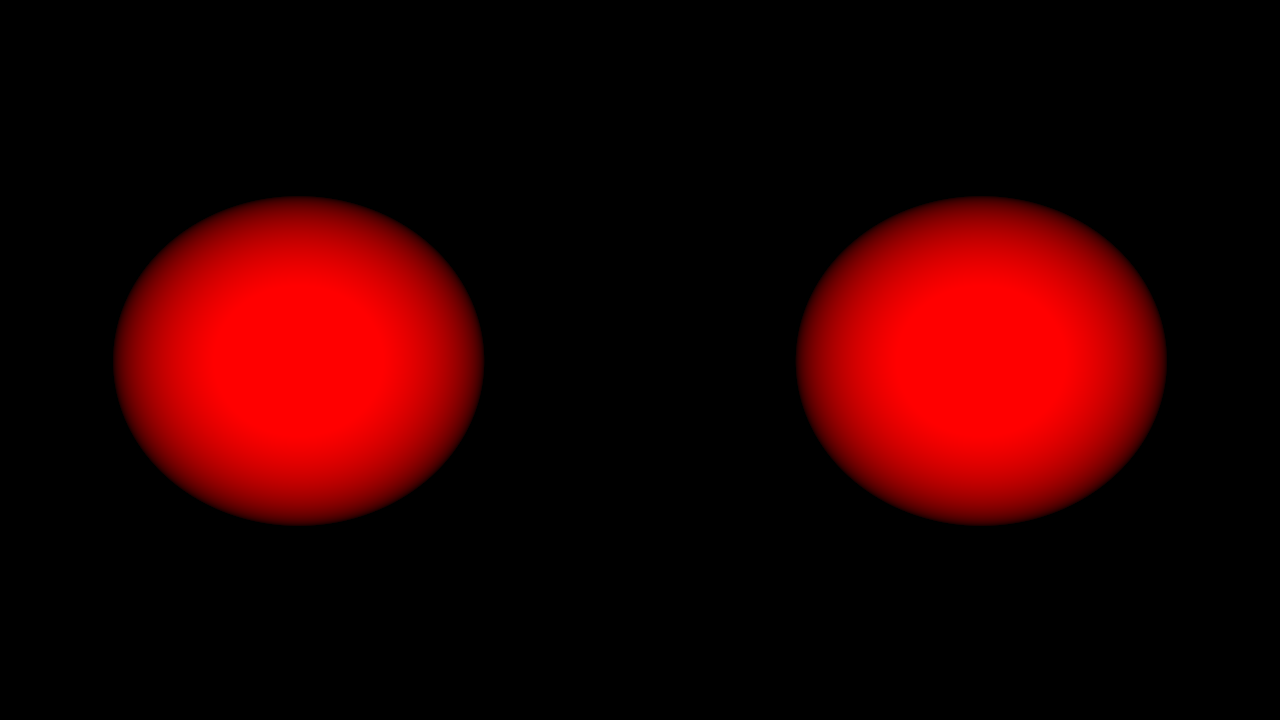
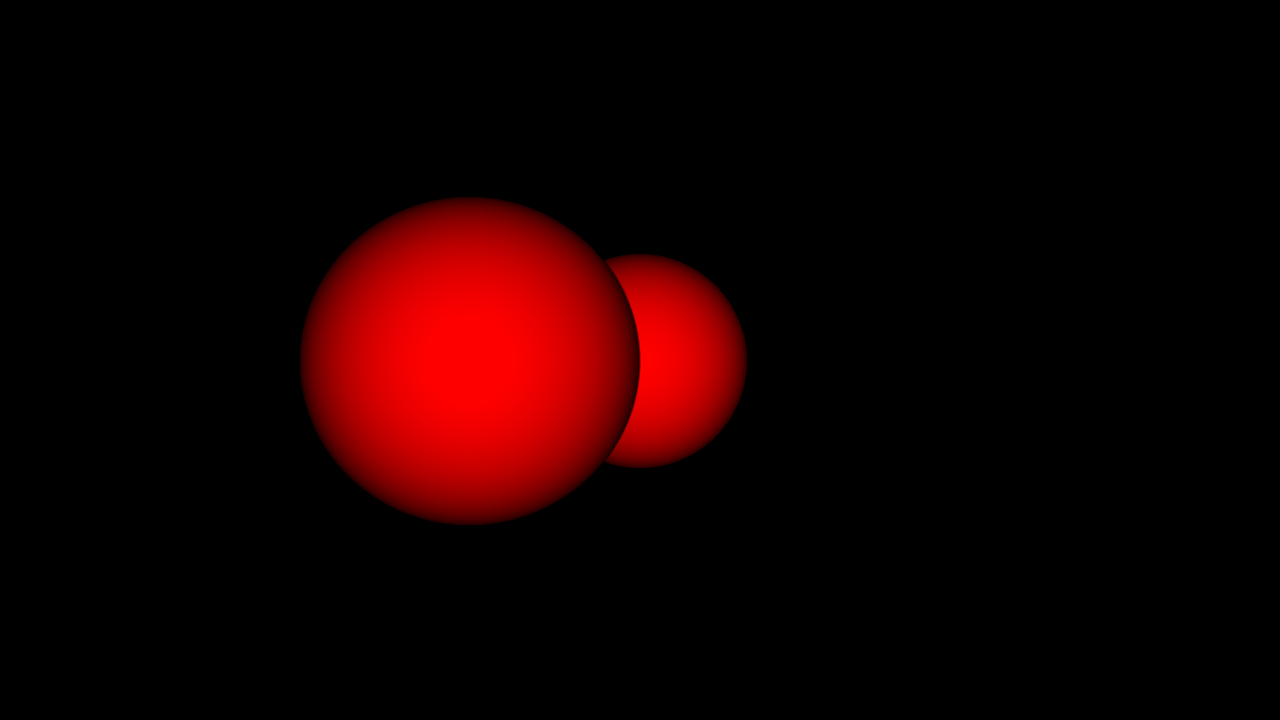
Add supersampling for anti-aliasing

Changed region(s): [[0.0625, 0.275, 0.5938, 0.7333], [0.625, 0.275, 0.9375, 0.7333]]

diff --git a/src/camera.rs b/src/camera.rs
@@ -1,5 +1,8 @@
-use crate::geometry::{Hit, Point3, Ray, Sphere, Vector3};
+use crate::geometry::{Hit, Point3, Ray, Vector3};
+use crate::utility::Pixel;
 use image::{Rgb, RgbImage};
+use rand::{distributions::Uniform, rngs::SmallRng};
+use rand::{Rng, SeedableRng};
 
 pub struct Viewport {
     width: f64,
@@ -24,7 +27,10 @@ pub struct Camera {
     img_width: f64,
     aspect_ratio: f64,
     viewport: Viewport,
-    focal_length: f64,
+    samples: u8,
+    dx: f64,
+    dy: f64,
+    upper_left_px: Point3,
 }
 
 impl Camera {
@@ -34,13 +40,26 @@ impl Camera {
         focal_length: f64,
         img_width: f64,
         aspect_ratio: f64,
+        samples: u8,
     ) -> Camera {
+        let dx = viewport.width / img_width;
+        let dy = viewport.height() / (img_width / aspect_ratio);
+
+        let upper_left_px = Point3(
+            -viewport.width / 2.0 + dx / 2.0,
+            viewport.height() / 2.0 + dy / 2.0,
+            -focal_length,
+        );
+
         Camera {
             center,
             viewport,
             img_width,
             aspect_ratio,
-            focal_length,
+            samples,
+            dx,
+            dy,
+            upper_left_px,
         }
     }
 
@@ -61,27 +80,60 @@ impl Camera {
         let img_height = self.img_height();
         let mut img = RgbImage::new(self.img_width as u32, img_height as u32);
 
-        let dx = self.viewport.width / self.img_width;
-        let dy = self.viewport.height() / img_height;
-        let upper_left_px = Point3(
-            -self.viewport.width / 2.0 + dx / 2.0,
-            self.viewport.height() / 2.0 + dy / 2.0,
-            -self.focal_length,
-        );
+        let mut rng = SmallRng::from_entropy();
+        let random_offsets_x: Vec<f64> =
+            std::iter::repeat_with(|| rng.sample(Uniform::new(-self.dx, self.dx)))
+                .take(self.samples as usize)
+                .collect();
+
+        let random_offsets_y: Vec<f64> =
+            std::iter::repeat_with(|| rng.sample(Uniform::new(-self.dy, self.dy)))
+                .take(self.samples as usize)
+                .collect();
 
         for (x, y, pixel) in img.enumerate_pixels_mut() {
-            let target_px = upper_left_px + Vector3(dx * x as f64, -dy * y as f64, 0.0);
-            let ray = Ray::new(self.center, target_px - self.center);
-            for object in &objects {
-                if let Some(t) = object.hit(&ray) {
-                    let normal = object.normal(ray.at(t.0));
-                    let intensity = Vector3::dot(normal, -ray.direction());
-                    let r = (intensity * 255.0) as u8;
-                    *pixel = Rgb([r, 0, 0])
+            let mut average = Pixel(0.0, 0.0, 0.0);
+
+            let viewport_x = self.dx * x as f64;
+            let viewport_y = -self.dy * y as f64;
+
+            for i in 0..self.samples {
+                let rndx = random_offsets_x[i as usize];
+                let rndy = random_offsets_y[i as usize];
+
+                let target_px =
+                    self.upper_left_px + Vector3((viewport_x) + rndx, (viewport_y) + rndy, 0.0);
+
+                let ray = Ray::new(self.center, target_px - self.center);
+                let color = Camera::cast_ray(&ray, &objects);
+
+                if let Some(c) = color {
+                    average += c;
+                } else {
+                    break;
                 }
             }
+
+            average /= self.samples;
+
+            *pixel = Rgb([
+                (average.0 * 255.0) as u8,
+                (average.1 * 255.0) as u8,
+                (average.2 * 255.0) as u8,
+            ]);
         }
 
         img
+    }
+
+    fn cast_ray(ray: &Ray, objects: &Vec<impl Hit>) -> Option<Pixel> {
+        for object in objects {
+            if let Some(t) = object.hit(&ray) {
+                let normal = object.normal(ray.at(t.0));
+                let intensity = Vector3::dot(normal, -ray.direction());
+                return Some(Pixel(intensity as f32, 0.0, 0.0));
+            }
+        }
+        None
     }
 }

diff --git a/src/utility.rs b/src/utility.rs
@@ -1,0 +1,33 @@
+use std::{
+    fmt::Display,
+    ops::{Add, AddAssign, DivAssign, Sub, SubAssign},
+};
+
+use image::Rgb;
+
+pub const EPSILON: f64 = 1e-6;
+
+#[derive(Clone, Copy)]
+pub struct Pixel(pub f32, pub f32, pub f32);
+
+impl AddAssign for Pixel {
+    fn add_assign(&mut self, rhs: Self) {
+        self.0 += rhs.0;
+        self.1 += rhs.1;
+        self.2 += rhs.2;
+    }
+}
+
+impl DivAssign<u8> for Pixel {
+    fn div_assign(&mut self, rhs: u8) {
+        self.0 /= rhs as f32;
+        self.1 /= rhs as f32;
+        self.2 /= rhs as f32;
+    }
+}
+
+impl Display for Pixel {
+    fn fmt(&self, f: &mut std::fmt::Formatter<'_>) -> std::fmt::Result {
+        write!(f, "Pixel {{r: {} g: {} b: {} }}", self.0, self.1, self.2)
+    }
+}

diff --git a/src/main.rs b/src/main.rs
@@ -6,6 +6,7 @@ fn main() {
     const IMAGE_WIDTH: f64 = 1280.0;
     const VIEWPORT_WIDTH: f64 = 2.0;
     const FOCAL_LENGTH: f64 = 1.0;
+    const SAMPLES: u8 = 100;
 
     let cam = Camera::new(
         Point3(0.0, 0.0, 0.0),
@@ -13,10 +14,11 @@ fn main() {
         FOCAL_LENGTH,
         IMAGE_WIDTH,
         ASPECT_RATIO,
+        SAMPLES,
     );
 
-    let right_sphere = Sphere::new(Point3(1.0, 0.0, -2.0), 0.5);
-    let left_sphere = Sphere::new(Point3(-1.0, 0.0, -2.0), 0.5);
+    let right_sphere = Sphere::new(Point3(0.0, 0.0, -3.0), 0.5);
+    let left_sphere = Sphere::new(Point3(-0.5, 0.0, -2.0), 0.5);
     let objects = vec![left_sphere, right_sphere];
 
     let img = cam.render(objects);

diff --git a/src/geometry.rs b/src/geometry.rs
@@ -3,7 +3,7 @@ use std::{
     ops::{Add, Div, Mul, Neg, Sub},
 };
 
-const EPSILON: f64 = 1e-6;
+use crate::utility::EPSILON;
 
 #[derive(Debug, Clone, Copy)]
 pub struct Vector3(pub f64, pub f64, pub f64);

diff --git a/src/lib.rs b/src/lib.rs
@@ -1,3 +1,4 @@
 pub mod camera;
 pub mod geometry;
 pub mod tests;
+pub mod utility;
